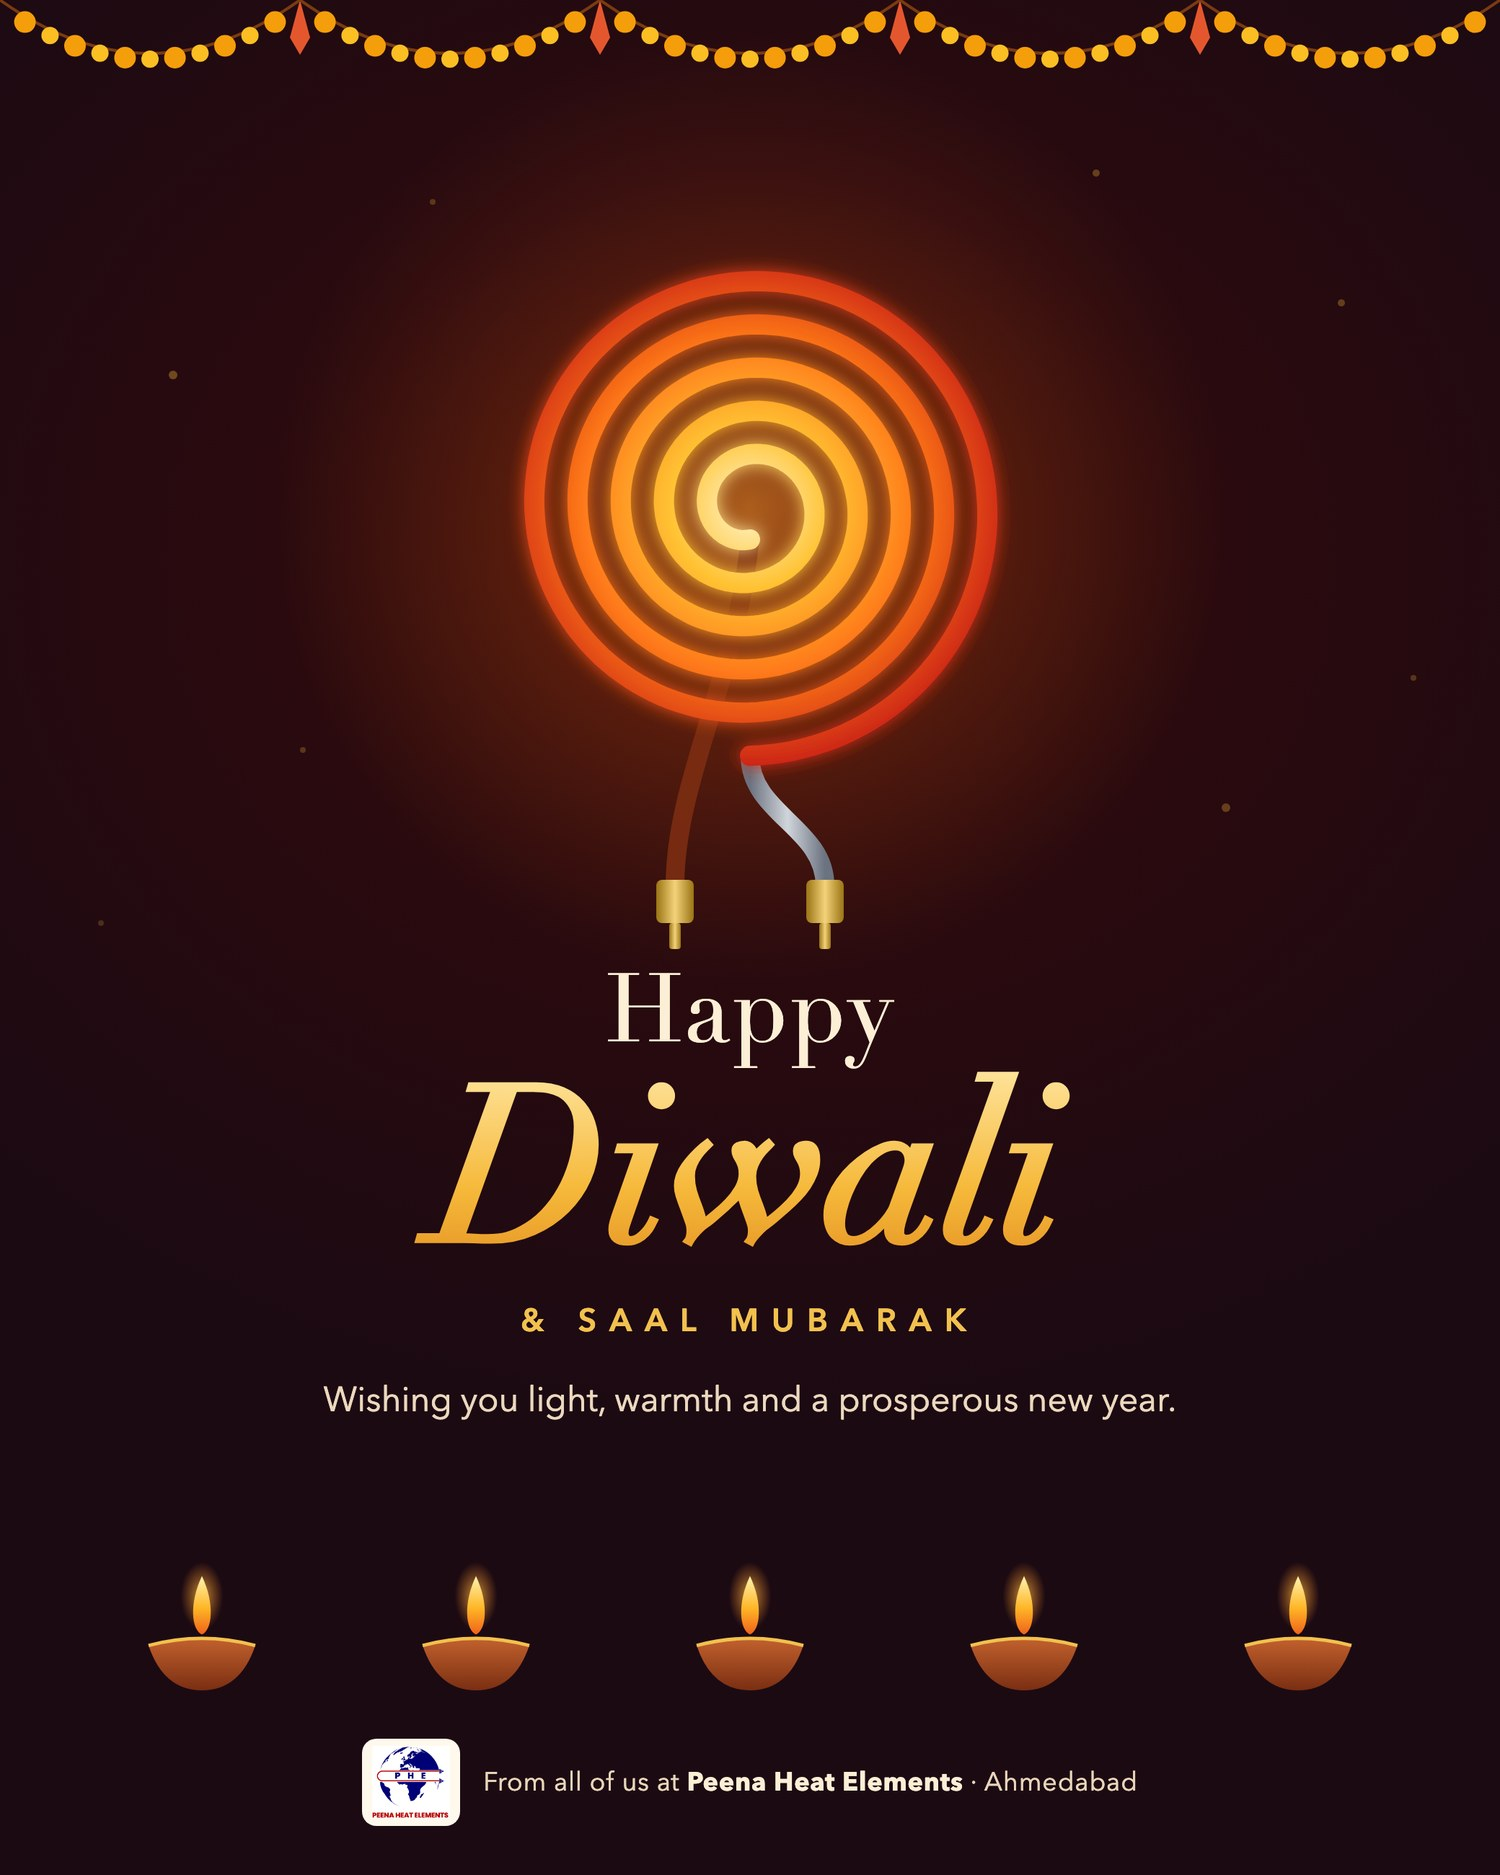
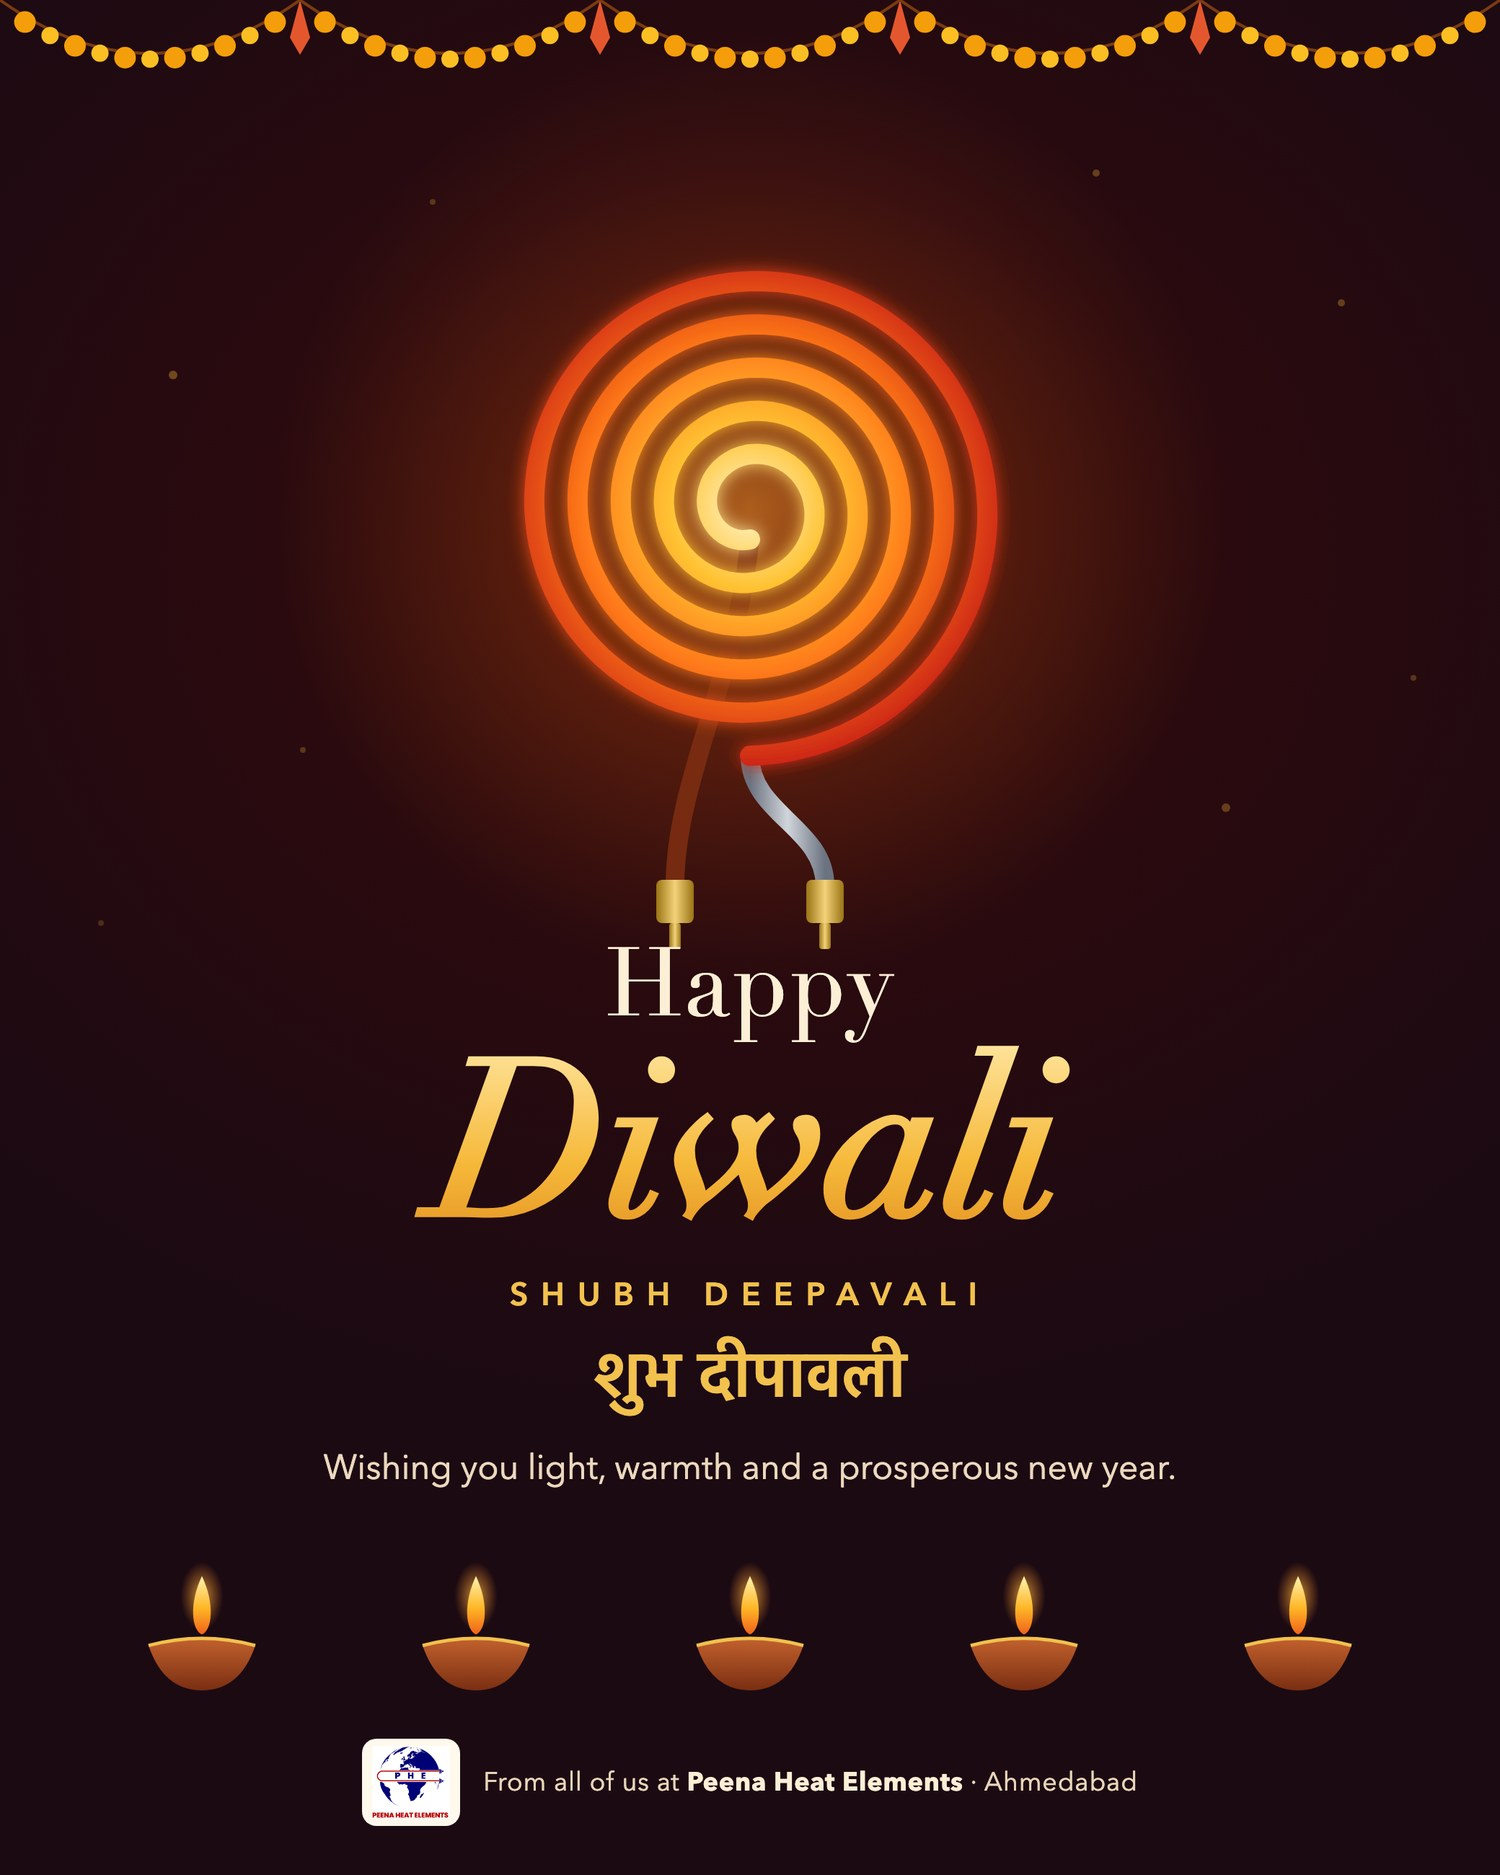
Prospecting: LinkedIn calendar page — weekly posts with file, caption and a posted tick; Diwali card in Hindi
- /prospecting/linkedin lists the Oct–Dec 2026 posts (linkedinCampaign.js): poster, date, kind, caption + first comment to copy,
  Download file, Mark posted (optional post link) / undo, next-up and overdue flags
- linkedin_posts table + GET/POST/DELETE /prospects/linkedin routes
- Hosted files in client/public/linkedin (videos re-encoded at CRF 24, ~6–8 MB each)
- Diwali card: Shubh Deepavali + शुभ दीपावली instead of Saal Mubarak (owner, 26 Oct)

Changed region(s): [[0.2147, 0.4949, 0.7667, 0.8043]]

diff --git a/client/src/pages/prospecting/LinkedInCalendar.jsx b/client/src/pages/prospecting/LinkedInCalendar.jsx
@@ -1,0 +1,128 @@
+import { useEffect, useMemo, useState } from 'react';
+import { Link } from 'react-router-dom';
+import api from '../../lib/api';
+import { LINKEDIN_POSTS, KIND_LABEL, KIND_CLS } from './linkedinCampaign';
+import { ArrowLeft, Copy, Download, CheckCircle2, Linkedin, RefreshCw, ExternalLink } from 'lucide-react';
+
+// LinkedIn calendar (owner, 26 Oct 2026): the weekly posts with their file, caption and a "posted" tick.
+// Posts are defined in linkedinCampaign.js; ticks live in linkedin_posts (server /prospects/linkedin).
+const fmtDate = d => new Date(d + 'T00:00:00').toLocaleDateString('en-GB', { weekday: 'short', day: 'numeric', month: 'short' });
+const fmtAt = d => new Date(d).toLocaleDateString('en-GB', { day: 'numeric', month: 'short' });
+
+export default function LinkedInCalendar() {
+  const [done, setDone] = useState({});          // post key → { posted_at, posted_by, url }
+  const [busy, setBusy] = useState(false);
+  const [copied, setCopied] = useState('');
+  const [urls, setUrls] = useState({});          // optional LinkedIn post link typed before ticking
+  const load = () => api.get('/prospects/linkedin')
+    .then(r => setDone(Object.fromEntries(r.data.map(x => [x.post_key, x]))))
+    .catch(() => {});
+  useEffect(() => { load(); }, []);
+
+  const posts = useMemo(() => [...LINKEDIN_POSTS].sort((a, b) => a.date.localeCompare(b.date)), []);
+  const today = new Date().toISOString().slice(0, 10);
+  const nextUp = posts.find(p => !done[p.key]);
+  const postedCount = posts.filter(p => done[p.key]).length;
+
+  const copy = async (text, key) => {
+    try { await navigator.clipboard.writeText(text || ''); setCopied(key); setTimeout(() => setCopied(''), 2000); }
+    catch { /* clipboard unavailable — the text can be selected by hand */ }
+  };
+  const mark = async key => {
+    setBusy(true);
+    try { await api.post(`/prospects/linkedin/${key}`, { url: (urls[key] || '').trim() || undefined }); await load(); }
+    finally { setBusy(false); }
+  };
+  const undo = async key => {
+    setBusy(true);
+    try { await api.delete(`/prospects/linkedin/${key}`); await load(); }
+    finally { setBusy(false); }
+  };
+
+  return (
+    <div className="p-6 max-w-5xl mx-auto">
+      <div className="flex flex-wrap items-center justify-between gap-3 mb-5">
+        <div>
+          <Link to="/prospecting" className="text-xs text-gray-500 hover:text-gray-700 flex items-center gap-1 mb-1"><ArrowLeft size={12} /> Prospecting</Link>
+          <h1 className="text-2xl font-bold text-gray-900 flex items-center gap-2">
+            <Linkedin size={22} className="text-brand-700" /> LinkedIn calendar
+          </h1>
+          <p className="text-xs text-gray-500 mt-1">One post every Wednesday, 10:30 am · 28 Oct – 30 Dec 2026. Download the file, copy the caption, post, then tick it here.</p>
+        </div>
+        <button className="btn-secondary flex items-center gap-1.5 text-sm" onClick={load}><RefreshCw size={15} /> Refresh</button>
+      </div>
+
+      <div className="grid grid-cols-2 md:grid-cols-3 gap-3 mb-5">
+        <div className="card px-4 py-3"><div className="text-2xl font-bold text-brand-700">{postedCount} / {posts.length}</div><div className="text-xs text-gray-500">Posted</div></div>
+        <div className="card px-4 py-3 col-span-2">
+          {nextUp ? (
+            <>
+              <div className="text-sm font-semibold text-gray-900">Next up: {fmtDate(nextUp.date)} · {nextUp.topic}</div>
+              <div className="text-xs text-gray-500 mt-1">{nextUp.date < today ? 'This one is overdue.' : nextUp.how}</div>
+            </>
+          ) : <div className="text-sm font-semibold text-emerald-700">✓ Every planned post is out.</div>}
+        </div>
+      </div>
+
+      <div className="space-y-4">
+        {posts.map(p => {
+          const d = done[p.key];
+          const overdue = !d && p.date < today;
+          const isNext = nextUp && nextUp.key === p.key;
+          return (
+            <div key={p.key} className={`card p-4 flex gap-4 ${isNext ? 'ring-2 ring-brand-500' : ''} ${d ? 'opacity-90' : ''}`}>
+              <a href={p.file} download className="flex-none" title="Download the file">
+                <img src={p.poster} alt="" className="w-24 h-30 object-cover rounded-md border border-gray-200" style={{ height: 120 }} />
+              </a>
+              <div className="min-w-0 flex-1">
+                <div className="flex flex-wrap items-center gap-2 mb-1">
+                  <span className="font-semibold text-gray-900">{fmtDate(p.date)}</span>
+                  <span className={`text-xs font-medium px-2 py-0.5 rounded-full ${KIND_CLS[p.kind] || 'bg-gray-100 text-gray-600'}`}>{KIND_LABEL[p.kind] || p.kind}{p.dur ? ` · ${p.dur}` : ''}</span>
+                  {d ? (
+                    <span className="text-xs font-medium px-2 py-0.5 rounded-full bg-emerald-100 text-emerald-800 flex items-center gap-1">
+                      <CheckCircle2 size={12} /> Posted {fmtAt(d.posted_at)}{d.posted_by ? ` · ${d.posted_by}` : ''}
+                    </span>
+                  ) : overdue ? <span className="text-xs font-medium px-2 py-0.5 rounded-full bg-amber-100 text-amber-800">Overdue</span>
+                    : isNext ? <span className="text-xs font-medium px-2 py-0.5 rounded-full bg-brand-50 text-brand-700">Next up</span> : null}
+                  {d?.url && <a href={d.url} target="_blank" rel="noopener noreferrer" className="text-xs text-brand-700 underline flex items-center gap-1"><ExternalLink size={11} /> open post</a>}
+                </div>
+                <h3 className="text-base font-semibold text-gray-900">{p.topic}</h3>
+                <p className="text-xs text-gray-500 mb-2">{p.how}</p>
+                <details className="mb-2">
+                  <summary className="cursor-pointer text-xs font-medium text-gray-700">Caption</summary>
+                  <pre className="mt-1 text-sm text-gray-700 bg-gray-50 border border-gray-200 rounded p-3 whitespace-pre-wrap break-words font-sans leading-relaxed">{p.caption}</pre>
+                  {p.comment && <pre className="mt-2 text-sm text-gray-700 bg-amber-50 border border-amber-200 rounded p-3 whitespace-pre-wrap break-words font-sans"><span className="text-xs font-medium text-amber-800">First comment: </span>{p.comment}</pre>}
+                </details>
+                <div className="flex flex-wrap items-center gap-2">
+                  <a className="btn-secondary text-xs flex items-center gap-1.5" href={p.file} download><Download size={13} /> Download file</a>
+                  <button className="btn-secondary text-xs flex items-center gap-1.5" onClick={() => copy(p.caption, p.key)}>
+                    <Copy size={13} /> {copied === p.key ? 'Copied ✓' : 'Copy caption'}
+                  </button>
+                  {p.comment && (
+                    <button className="btn-secondary text-xs flex items-center gap-1.5" onClick={() => copy(p.comment, p.key + 'c')}>
+                      <Copy size={13} /> {copied === p.key + 'c' ? 'Copied ✓' : 'Copy first comment'}
+                    </button>
+                  )}
+                  {d ? (
+                    <button className="text-xs text-gray-400 underline" disabled={busy} onClick={() => undo(p.key)}>undo posted</button>
+                  ) : (
+                    <>
+                      <input className="input text-xs" style={{ width: 240 }} placeholder="Link to the post (optional)"
+                        value={urls[p.key] || ''} onChange={e => setUrls(u => ({ ...u, [p.key]: e.target.value }))} />
+                      <button className="btn-primary text-xs flex items-center gap-1.5" disabled={busy} onClick={() => mark(p.key)}>
+                        <CheckCircle2 size={13} /> Mark posted
+                      </button>
+                    </>
+                  )}
+                </div>
+              </div>
+            </div>
+          );
+        })}
+      </div>
+      <p className="text-xs text-gray-400 mt-5">
+        The same files are on the Mac in <strong>Desktop › PHE Campaign Content › LinkedIn</strong>, by date. After posting from the company page, repost from your own profile and Mitesh’s.
+      </p>
+    </div>
+  );
+}

diff --git a/client/src/pages/prospecting/ProspectingList.jsx b/client/src/pages/prospecting/ProspectingList.jsx
@@ -3,7 +3,8 @@ import api from '../../lib/api';
 import Modal from '../../components/ui/Modal';
 import { bodyToHtml, bodyToPlain, renderSms } from './applicationEmails';
 import { campaignFor, renderTouch, renderCalls, tailoredTo } from './listCampaigns';
-import { Target, Download, RefreshCw, Filter, Mail, MessageSquare, CheckCircle2, Star, Upload, Copy, Eye, Phone } from 'lucide-react';
+import { Link } from 'react-router-dom';
+import { Target, Download, RefreshCw, Filter, Mail, MessageSquare, CheckCircle2, Star, Upload, Copy, Eye, Phone, Linkedin } from 'lucide-react';
 
 // Parse pasted CSV / Excel-copied (TSV) rows into prospect objects. Requires a
 // header row; a "Company" column is mandatory, the rest are optional.
@@ -505,6 +506,9 @@ export default function ProspectingList() {
           </p>
         </div>
         <div className="flex items-center gap-2">
+          <Link to="/prospecting/linkedin" className="btn-secondary flex items-center gap-1.5 text-sm">
+            <Linkedin size={15} /> LinkedIn calendar
+          </Link>
           <button className="btn-secondary flex items-center gap-1.5 text-sm" onClick={() => { setImpResult(null); setShowImport(true); }}>
             <Upload size={15} /> Import
           </button>

diff --git a/client/src/App.jsx b/client/src/App.jsx
@@ -34,6 +34,7 @@ import CustomerQueryList from './pages/customerQueries/CustomerQueryList';
 import CustomerQueryDetail from './pages/customerQueries/CustomerQueryDetail';
 import OrderTimeline from './pages/customerQueries/OrderTimeline';
 import ProspectingList from './pages/prospecting/ProspectingList';
+import LinkedInCalendar from './pages/prospecting/LinkedInCalendar';
 import PolicyGuide from './pages/PolicyGuide';
 
 const ManufacturingPlan = lazy(() => import('./pages/manufacturing/ManufacturingPlan'));
@@ -144,6 +145,11 @@ export default function App() {
           <Route path="prospecting" element={
             <ProtectedRoute roles={['owner','admin','accounts']} module="prospecting">
               <ProspectingList />
+            </ProtectedRoute>
+          } />
+          <Route path="prospecting/linkedin" element={
+            <ProtectedRoute roles={['owner','admin','accounts']} module="prospecting">
+              <LinkedInCalendar />
             </ProtectedRoute>
           } />
 

diff --git a/client/src/pages/prospecting/linkedinCampaign.js b/client/src/pages/prospecting/linkedinCampaign.js
@@ -30,9 +30,9 @@ ${WA}
     how: 'Image: post the card on Diwali morning (a Sunday).',
     caption: `Happy Diwali from all of us at Peena Heat Elements. 🪔
 
-Thank you to our customers, suppliers and our team for a bright year. Wishing you light, health and a prosperous new year. Saal Mubarak!
+Thank you to our customers, suppliers and our team for a bright year. Wishing you light, health and prosperity. Shubh Deepavali! शुभ दीपावली 🪔
 
-#HappyDiwali #SaalMubarak` },
+#HappyDiwali #ShubhDeepavali` },
   { key: 'w03', date: '2026-11-11', kind: 'video', topic: 'The full range', file: '/linkedin/w03.mp4', poster: '/linkedin/w03.jpg', dur: '0:17',
     how: 'Video: upload the file as it is (the still photo is at /linkedin/w03-photo.jpg if you prefer an image).',
     caption: `One partner, every shape.

diff --git a/server/src/db/index.js b/server/src/db/index.js
@@ -152,6 +152,15 @@ async function initDB(retries = 20, delayMs = 10000) {
           changed_at  TIMESTAMPTZ NOT NULL DEFAULT NOW()
         )`);
       await pool.query(`CREATE INDEX IF NOT EXISTS idx_prospect_status_log_p ON prospect_status_log(prospect_id, changed_at DESC)`);
+      // LinkedIn calendar (26 Oct 2026): which planned posts went out; the posts themselves are defined in the client
+      await pool.query(`
+        CREATE TABLE IF NOT EXISTS linkedin_posts (
+          post_key  TEXT PRIMARY KEY,
+          posted_at TIMESTAMPTZ NOT NULL DEFAULT NOW(),
+          posted_by INTEGER REFERENCES users(id) ON DELETE SET NULL,
+          url       TEXT,
+          note      TEXT
+        )`);
       await pool.query(`
         CREATE TABLE IF NOT EXISTS backup_log (
           id SERIAL PRIMARY KEY,
